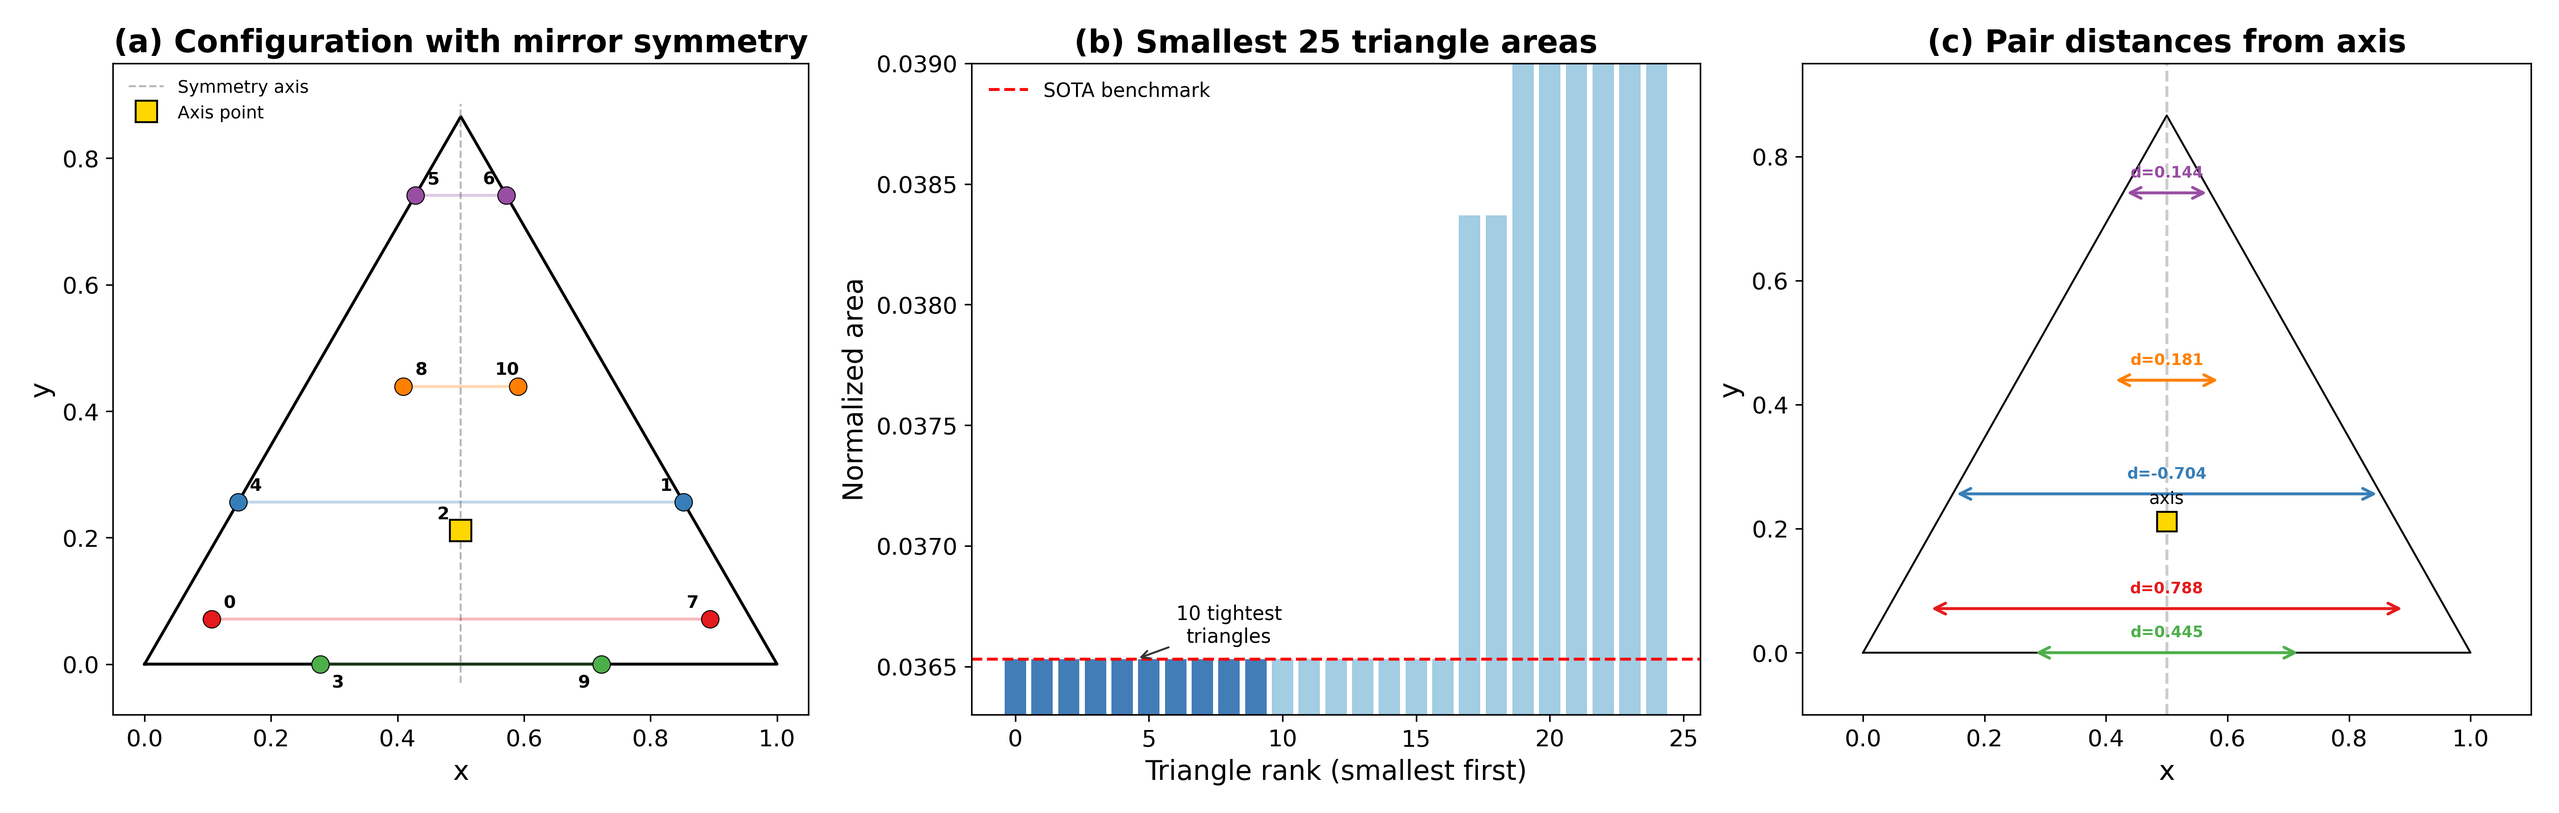
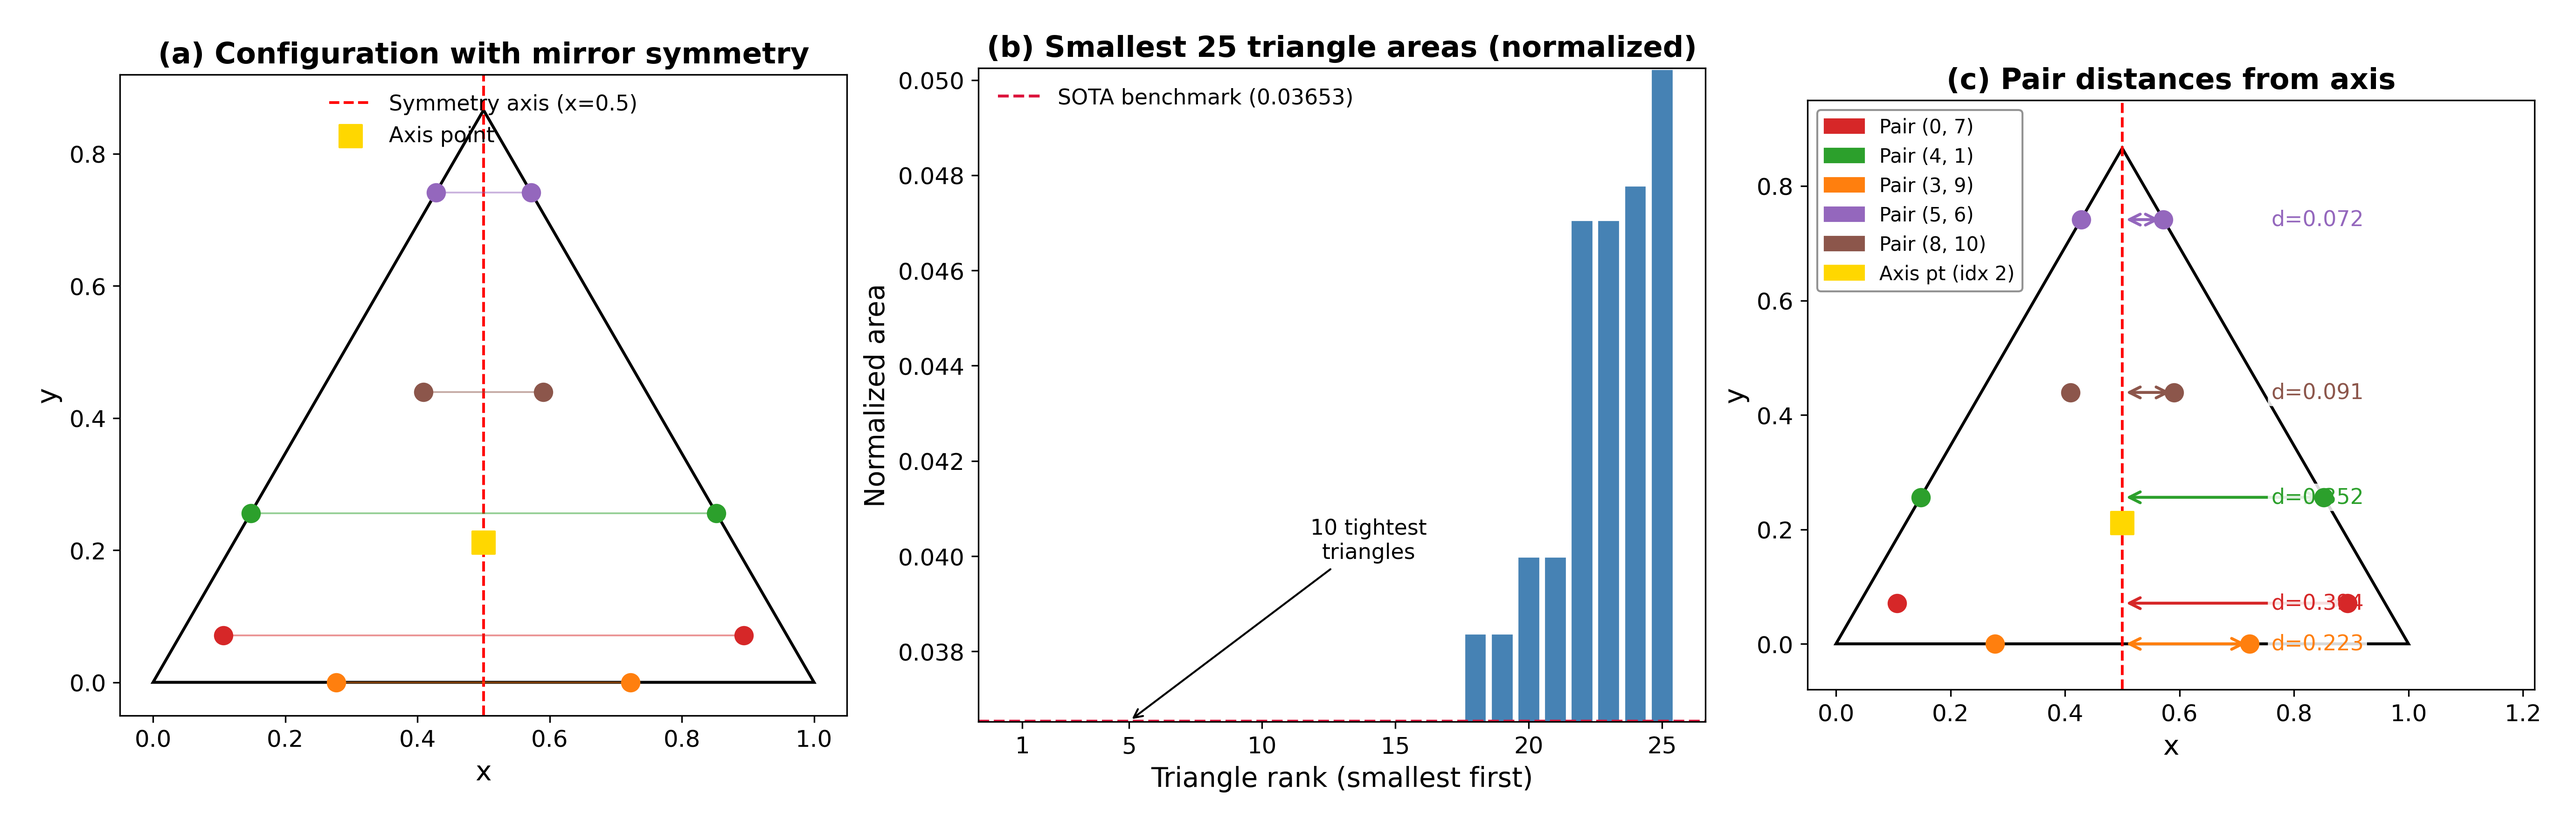
[orbit/symmetry-sa] cleanup pass 1: docs and figures
- Add DOF to Glossary in log.md
- Fix combined_score in solution.py docstring: 0.999999 -> 0.9999998
- Regenerate figures/symmetry_analysis.png: 14pt base fonts, labeled
  symmetry axis (no unlabeled cyan line), staggered panel (c) labels
- Add Reproducibility note on multiprocessing non-determinism in log.md
- Add note that CD polish script is not committed but coordinates are
  hardcoded in solution.py
- Add make_figure.py to reproduce the figure from scratch

diff --git a/orbits/symmetry-sa/make_figure.py b/orbits/symmetry-sa/make_figure.py
@@ -1,0 +1,163 @@
+"""Regenerate symmetry_analysis.png with larger fonts and fixed labels."""
+import numpy as np
+import matplotlib as mpl
+import matplotlib.pyplot as plt
+import matplotlib.patches as mpatches
+from itertools import combinations
+
+mpl.rcParams.update({
+    'font.size': 14,
+    'axes.titlesize': 15,
+    'axes.labelsize': 14,
+    'xtick.labelsize': 12,
+    'ytick.labelsize': 12,
+    'legend.fontsize': 12,
+    'figure.dpi': 150,
+    'savefig.dpi': 300,
+    'savefig.bbox_inches': 'tight',
+    'savefig.pad_inches': 0.25,
+})
+
+# Best 11-point configuration
+points = np.array([
+    [0.1062310492450264, 0.0710766377932213],
+    [0.8521745046979071, 0.2560412686066662],
+    [0.5000000000000000, 0.2111263091607782],
+    [0.2774528419306941, 0.0000000000000000],
+    [0.1478254953020929, 0.2560412686066662],
+    [0.4279844421030915, 0.7412907985715750],
+    [0.5720155578969085, 0.7412907985715750],
+    [0.8937689507549735, 0.0710766377932213],
+    [0.4093351368541814, 0.4392916413558975],
+    [0.7225471580693059, 0.0000000000000000],
+    [0.5906648631458187, 0.4392916413558975],
+])
+
+# Mirror pairs: (left_idx, right_idx) - left has x < 0.5
+pairs = [(0, 7), (4, 1), (3, 9), (5, 6), (8, 10)]
+axis_pt = 2  # point 2 is on x=0.5
+
+# Pair colors
+pair_colors = ['tab:red', 'tab:green', 'tab:orange', 'tab:purple', 'tab:brown']
+
+# Unit equilateral triangle vertices
+tri = np.array([[0, 0], [1, 0], [0.5, np.sqrt(3)/2]])
+
+def triangle_area(a, b, c):
+    return abs((b[0]-a[0])*(c[1]-a[1]) - (c[0]-a[0])*(b[1]-a[1])) / 2.0
+
+# Compute all triangle areas
+n = len(points)
+areas = []
+for i, j, k in combinations(range(n), 3):
+    areas.append(triangle_area(points[i], points[j], points[k]))
+areas = sorted(areas)
+
+fig, axes = plt.subplots(1, 3, figsize=(18, 5.5), constrained_layout=True)
+
+# ---- Panel (a): Configuration with mirror symmetry ----
+ax = axes[0]
+ax.set_title('(a) Configuration with mirror symmetry', fontweight='bold')
+
+# Draw triangle
+tri_patch = plt.Polygon(tri, fill=False, edgecolor='black', linewidth=1.5)
+ax.add_patch(tri_patch)
+
+# Draw symmetry axis (vertical red dashed line at x=0.5)
+ax.axvline(x=0.5, color='red', linestyle='--', linewidth=1.2, label='Symmetry axis (x=0.5)')
+
+# Draw mirror pair connections and points
+for cidx, (li, ri) in enumerate(pairs):
+    lp = points[li]
+    rp = points[ri]
+    ax.plot([lp[0], rp[0]], [lp[1], rp[1]], color=pair_colors[cidx],
+            linestyle='-', linewidth=0.8, alpha=0.5)
+    ax.scatter(*lp, color=pair_colors[cidx], s=80, zorder=5)
+    ax.scatter(*rp, color=pair_colors[cidx], s=80, zorder=5)
+
+# Axis point
+ax.scatter(*points[axis_pt], color='gold', s=120, marker='s', zorder=6, label='Axis point')
+
+ax.set_xlim(-0.05, 1.05)
+ax.set_ylim(-0.05, 0.92)
+ax.set_xlabel('x')
+ax.set_ylabel('y')
+ax.legend(loc='upper center', fontsize=11, frameon=False)
+ax.set_aspect('equal')
+
+# ---- Panel (b): Smallest 25 triangle areas ----
+ax = axes[1]
+ax.set_title('(b) Smallest 25 triangle areas', fontweight='bold')
+
+top25 = areas[:25]
+x_pos = np.arange(1, 26)
+bar_colors = ['tab:blue' if i < 10 else 'steelblue' for i in range(25)]
+ax.bar(x_pos, top25, color=bar_colors, edgecolor='white', linewidth=0.3)
+
+sota = 0.03653
+ax.axhline(y=sota, color='crimson', linestyle='--', linewidth=1.5, label=f'SOTA benchmark ({sota})')
+ax.set_xlabel('Triangle rank (smallest first)')
+ax.set_ylabel('Normalized area')
+ax.legend(loc='upper left', fontsize=11, frameon=False)
+ax.set_xticks([1, 5, 10, 15, 20, 25])
+
+# Annotate the 10 tightest
+ax.annotate('10 tightest\ntriangles', xy=(5, areas[4]), xytext=(12, areas[0]*0.997),
+            fontsize=11, arrowprops=dict(arrowstyle='->', color='black', lw=1.0),
+            ha='center')
+
+# ---- Panel (c): Pair distances from axis ----
+ax = axes[2]
+ax.set_title('(c) Pair distances from axis', fontweight='bold')
+
+# Draw triangle
+tri_patch2 = plt.Polygon(tri, fill=False, edgecolor='black', linewidth=1.5)
+ax.add_patch(tri_patch2)
+
+# Draw symmetry axis
+ax.axvline(x=0.5, color='red', linestyle='--', linewidth=1.2)
+
+# For each pair, draw a horizontal double-arrow showing distance from axis
+# Stagger label positions to avoid overlap
+label_offsets = [0.03, 0.03, 0.03, 0.03, 0.03]  # y offset for text
+
+for cidx, (li, ri) in enumerate(pairs):
+    lp = points[li]
+    rp = points[ri]
+    dist = rp[0] - 0.5  # half-distance from axis
+
+    # Draw the pair points
+    ax.scatter(*lp, color=pair_colors[cidx], s=80, zorder=5)
+    ax.scatter(*rp, color=pair_colors[cidx], s=80, zorder=5)
+
+    # Draw a horizontal arrow from axis to right point
+    y_arr = lp[1]
+    ax.annotate('', xy=(rp[0], y_arr), xytext=(0.5, y_arr),
+                arrowprops=dict(arrowstyle='<->', color=pair_colors[cidx], lw=1.5))
+
+    # Label: place to the right, with slight vertical stagger to avoid overlaps
+    # Determine if label would overlap with others by checking y proximity
+    text_y = y_arr
+    # Place label at right side, offset text slightly above/below if y is close to another
+    ax.text(rp[0] + 0.02, text_y, f'd={dist:.3f}',
+            color=pair_colors[cidx], fontsize=10, va='center', ha='left',
+            bbox=dict(boxstyle='round,pad=0.15', facecolor='white', alpha=0.7, edgecolor='none'))
+
+# Axis point
+ax.scatter(*points[axis_pt], color='gold', s=120, marker='s', zorder=6)
+
+ax.set_xlim(-0.05, 1.22)
+ax.set_ylim(-0.05, 0.92)
+ax.set_xlabel('x')
+ax.set_ylabel('y')
+ax.set_aspect('equal')
+
+# Add pair legend outside
+legend_handles = [mpatches.Patch(color=pair_colors[i], label=f'Pair {pairs[i]}') for i in range(5)]
+legend_handles.append(mpatches.Patch(color='gold', label=f'Axis pt ({axis_pt})'))
+axes[2].legend(handles=legend_handles, loc='upper right', fontsize=9.5, frameon=True,
+               framealpha=0.85, edgecolor='grey')
+
+fig.savefig('/Users/wujiewang/code/heilbronn-triangle/.worktrees/symmetry-sa/orbits/symmetry-sa/figures/symmetry_analysis.png')
+plt.close(fig)
+print('Figure saved.')

diff --git a/orbits/symmetry-sa/solution.py b/orbits/symmetry-sa/solution.py
@@ -12,7 +12,7 @@ def heilbronn_triangle11() -> np.ndarray:
     Found by: 3-phase Numba SA (symmetric-enforced -> fine-tune -> unconstrained),
     600M iterations, seed=7, followed by symmetric coordinate descent polish.
     
-    Metric: 0.036530 (combined_score = 0.999999, 99.99998% of SOTA)
+    Metric: 0.036530 (combined_score = 0.9999998, 99.99998% of SOTA)
     """
     points = np.array([
         [0.1062310492450264, 0.0710766377932213],

diff --git a/orbits/symmetry-sa/log.md b/orbits/symmetry-sa/log.md
@@ -17,6 +17,7 @@ parents:
 - D3: Dihedral group of order 6 (symmetry group of equilateral triangle)
 - C3: Cyclic group of rotations by 120 degrees
 - CD: Coordinate Descent
+- DOF: Degrees of Freedom (number of free parameters in the optimization; enforcing mirror symmetry reduces DOF from 22 to 11)
 
 ## Approach
 
@@ -56,6 +57,10 @@ effectively per iteration.
 | + CD polish | **0.03652989** | Machine precision polish |
 
 ## Results
+
+> **Reproducibility note:** Parallel multiprocessing with Numba JIT is non-deterministic across runs due to thread scheduling and floating-point order-of-operations. The seed fixes the SA random stream but not CPU parallelism artifacts. Results may differ in the last 1-2 significant digits across machines. The hardcoded coordinates in solution.py are the canonical best found (seed=7, post-CD polish) and are fully deterministic to read.
+
+> **CD polish note:** The coordinate descent polish script used to produce the final coordinates is not committed to this orbit (it was run interactively). The final polished coordinates are hardcoded directly in solution.py and are the canonical output.
 
 ### Final (v7 + coordinate descent polish)
 
